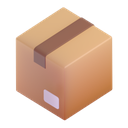
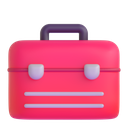
v581: Sol sidebar ve mobil 3B ikonlar, Personel Takibi yeşil/kırmızı ok ikonu, Palet Fişi kutu ikonu

diff --git a/assets/style.css b/assets/style.css
@@ -2671,7 +2671,7 @@ dialog.pm-dialog:not([open]) { display: none; }
 @media (min-width: 390px) { .bottomnav .bn-more-dar { display: none; } }
 .bn-sep { align-self: center; width: 1px; height: 34px; flex: 0 0 1px; background: var(--bn-dock-border); }
 .bn-item .ni-wrap { position: relative; width: 42px; height: 42px; flex-shrink: 0; transition: transform .32s cubic-bezier(.34,1.56,.64,1); }
-.bn-item .ni { width: 100%; height: 100%; display: block; filter: var(--ni-idle); transition: filter .25s ease; }
+.bn-item .ni { width: 100%; height: 100%; display: block; object-fit: contain; filter: var(--ni-idle); transition: filter .25s ease; }
 .bn-item .bn-label {
     font-size: 10.5px; line-height: 1.1; font-weight: 600; color: var(--bn-label);
     white-space: nowrap; overflow: hidden; text-overflow: ellipsis; max-width: 100%;
@@ -2781,9 +2781,11 @@ a.bn-tile.bn-tile-link:focus-visible { outline: 2px solid var(--depot-accent, va
     width: 50px; height: 50px; display: grid; place-items: center; font-size: 1.55rem; line-height: 1;
     border-radius: 14px; background: var(--surface-2); border: 1px solid var(--border);
 }
+.bn-emoji:has(img) { background: transparent; border: none; border-radius: 0; }
+.bn-emoji img { width: 50px; height: 50px; object-fit: contain; display: block; }
 .bn-tile-link.is-current { background: rgba(var(--depot-accent-rgb, 100,116,139), .12); box-shadow: inset 0 0 0 1.5px rgba(var(--depot-accent-rgb, 100,116,139), .5); }
 .bn-sheet.editing .bn-tile-link { opacity: .4; }   /* Sabitle modunda: bu sayfalar sabitlenemez */
-.bn-tile .go img { width: 50px; height: 50px; }
+.bn-tile .go img { width: 50px; height: 50px; object-fit: contain; }
 .bn-tile.is-current .go { background: rgba(var(--depot-accent-rgb, 100,116,139), .12); box-shadow: inset 0 0 0 1.5px rgba(var(--depot-accent-rgb, 100,116,139), .5); }
 .bn-tile.in-bar .go::after { content: 'alt menüde'; font-size: .6rem; font-weight: 600; color: var(--muted); }
 .bn-sheet.editing .bn-tile.in-bar .go::after { content: none; }
@@ -4242,7 +4244,8 @@ a.bn-tile.bn-tile-link:focus-visible { outline: 2px solid var(--depot-accent, va
         background: rgba(255,255,255,.08);
         color: #fff; text-decoration: none;
     }
-    .sidebar-link-icon { font-size: 1rem; width: 20px; text-align: center; flex-shrink: 0; }
+    .sidebar-link-icon { font-size: 1rem; width: 20px; height: 20px; display: inline-flex; align-items: center; justify-content: center; text-align: center; flex-shrink: 0; }
+    .sidebar-link-icon img { width: 20px; height: 20px; object-fit: contain; display: block; }
     .sidebar-link-label { white-space: nowrap; overflow: hidden; text-overflow: ellipsis; }
 
     /* "Personel Takibi" sidebar ikonu — index.php'nin dashboard kartındaki

diff --git a/scripts/dashboard_navigation_smoke.js b/scripts/dashboard_navigation_smoke.js
@@ -52,12 +52,18 @@ const proof = { anonymous: true, liveApplication: false, physicalMobileDevice: f
             });
             check(await page.evaluate(() => {
                 const imgs = Array.from(document.querySelectorAll('.home-card-icon img'));
-                return imgs.length === 45 && imgs.every(img => img.complete && img.naturalWidth === 128 && (img.getAttribute('src') || '').startsWith('assets/nav-icons/3d/'));
-            }), name + ' all 45 homepage 3D PNG icons decode at naturalWidth 128');
+                return imgs.length === 45 && imgs.every(img => {
+                    const href = img.closest('.home-card')?.getAttribute('href') || '';
+                    const src = img.getAttribute('src') || '';
+                    if (href === 'personel_takip.php') return img.complete && img.naturalWidth > 0 && src.startsWith('assets/nav-icons/ptak.svg?v=');
+                    return img.complete && img.naturalWidth === 128 && src.startsWith('assets/nav-icons/3d/');
+                });
+            }), name + ' all 45 homepage icons decode cleanly (44 3D PNG 128px + Personel Takibi ptak.svg)');
             // v551: akordiyon — Hızlı Maliyet, kapalı Operasyon grubunda; görüntü çözülsün diye grubu aç
             await page.evaluate(() => { const d = document.querySelector('details[data-sb-grup="operasyon"]'); if (d) d.open = true; });
             await page.waitForFunction(() => { const i = document.querySelector('.sidebar-link[href="hizli_maliyet.php"] img'); return i && i.complete && i.naturalWidth > 0; });
-            check(await page.locator('.sidebar-link[href="hizli_maliyet.php"] img').evaluate(image => image.complete && image.naturalWidth === 64 && image.width === 20 && image.height === 20 && image.getAttribute('src').includes('assets/nav-icons/qcost.svg?v=')), name + ' sidebar reuses the dollar asset at its original icon size');
+            check(await page.locator('.sidebar-link[href="hizli_maliyet.php"] img').evaluate(image => image.complete && image.naturalWidth === 128 && image.width === 20 && image.height === 20 && image.getAttribute('src').includes('assets/nav-icons/3d/hizli_maliyet.png?v=')), name + ' sidebar uses 3D icon at 20x20');
+            check(await page.locator('.sidebar-link[href="personel_takip.php"] .sbi-personel').count() === 1, name + ' sidebar keeps .sbi-personel 3D arrow icon');
             const expectedIconPx = width >= 1280 ? 64 : (width >= 900 ? 56 : 54);
             for (const theme of ['light', 'dark']) {
                 await page.evaluate(theme => { document.documentElement.dataset.theme = theme; }, theme);

diff --git a/scripts/bottomnav_smoke.js b/scripts/bottomnav_smoke.js
@@ -440,8 +440,8 @@ function guvenliAlanKurallari(barSel) {
             if (homeBekAktif) ok('B', bag, 'maliyet_*: dashboard.read yok → Ana Sayfa aktif', olcAktif === 'home', JSON.stringify(d.aktifler));
             else ok('B', bag, 'maliyet_*: Eski Raporlar (rapor) aktif', olcAktif === 'rapor' || (olcAktif === 'more' && d.digerLabel.includes('Eski Raporlar')), JSON.stringify(d.aktifler));
         }
-        ok('B', bag, 'ikonlar <img width=42/18 alt=""> assets/nav-icons/*.svg?v=',
-            d.imgler.every(([w, h, alt, src]) => w === h && ['42', '18'].includes(w) && alt === '' && /assets\/nav-icons\/[a-z]+\.svg\?v=\d+$/.test(src)),
+        ok('B', bag, 'ikonlar <img width=42/18 alt=""> assets/nav-icons/(3d/*.png|*.svg)?v=',
+            d.imgler.every(([w, h, alt, src]) => w === h && ['42', '18'].includes(w) && alt === '' && /assets\/nav-icons\/(3d\/[a-z0-9_]+\.png|[a-z]+\.svg)\?v=\d+$/.test(src)),
             JSON.stringify(d.imgler.filter(([w, h, alt, src]) => !(w === h && alt === '' && /nav-icons/.test(src)))));
         await ctx.close();
     }
@@ -900,13 +900,13 @@ function guvenliAlanKurallari(barSel) {
         }, TASARIM);
         let d = await oku();
         ok('B', bag + '@360', '4. slot gizli, "Diğer" Hesap\'ı taşıyor (ikon + rozet + etiket + aria-current)',
-            d.diger && d.digerCur === 'page' && /hesap\.svg/.test(d.ikon) && d.rozet && d.etiket === 'Hesap' && !d.slotGor, JSON.stringify(d));
+            d.diger && d.digerCur === 'page' && /hesap\.png/.test(d.ikon) && d.rozet && d.etiket === 'Hesap' && !d.slotGor, JSON.stringify(d));
         await page.setViewportSize({ width: 430, height: 932 }); await page.waitForTimeout(250);
         d = await oku();
         ok('B', bag + '@430', 'genişleyince Hesap slotu görünür+aktif, "Diğer" artık Hesap\'ı TAŞIMAZ (v575: şifre değiştirme karosu için "Diğer" kalır)', d.diger && d.slotGor && d.slotCur === 'page' && d.digerCur === null, JSON.stringify(d));
         await page.setViewportSize({ width: 360, height: 740 }); await page.waitForTimeout(250);
         d = await oku();
-        ok('B', bag + '@360', 'daralınca yine "Diğer" taşır', d.diger && d.digerCur === 'page' && /hesap\.svg/.test(d.ikon), JSON.stringify(d));
+        ok('B', bag + '@360', 'daralınca yine "Diğer" taşır', d.diger && d.digerCur === 'page' && /hesap\.png/.test(d.ikon), JSON.stringify(d));
         ok('A', bag, 'konsol hatası yok', hatalar.length === 0, hatalar.join(' || '));
         await ctx.close();
     }

diff --git a/sw.js b/sw.js
@@ -1,5 +1,5 @@
 // sw.js — Yükleme Planı PWA Service Worker
-const CACHE_NAME = 'yukleme-plani-v580';
+const CACHE_NAME = 'yukleme-plani-v581';
 
 // Uygulama kabuğunu önbellekle
 const SHELL = [

diff --git a/config/helpers.php b/config/helpers.php
@@ -13,7 +13,7 @@ require_once __DIR__ . '/role_permission_matrix.php';
 // gözle doğrulamak). sw.js'teki CACHE_NAME sayısıyla EŞLENİR — anlamlı bir
 // değişiklik yapıp SW cache'i artırdığınızda BU DEĞERİ DE aynı sayıya çekin.
 if (!defined('APP_SURUM')) {
-    define('APP_SURUM', 'v580');
+    define('APP_SURUM', 'v581');
 }
 
 // --- HTML kaçışı ---
@@ -670,8 +670,13 @@ function nav_menu_modeli(string $base): array {
     $a_ynt   = $a_usr || $a_rol || $a_aud || $a_bkp;
 
 
-    $ge = fn(string $href, string $ikon, string $etiket, bool $aktif, ?string $nav = null, int $rozet = 0): array =>
-        ['href' => $href, 'ikon' => $ikon, 'etiket' => $etiket, 'aktif' => $aktif, 'rozet' => $rozet, 'nav' => $nav];
+    $ge = function (string $href, string $ikon, string $etiket, bool $aktif, ?string $nav = null, int $rozet = 0) use ($base): array {
+        // v581: Personel Takibi sidebar'da .sbi-personel 3B ok ikonunu korur; diğer tüm öğeler 3B PNG setini kullanır.
+        if ($href !== 'personel_takip.php' && ($u3d = nav_3d_ikon_url($href, $base)) !== null) {
+            $ikon = '<img src="' . h($u3d) . '" width="20" height="20" alt="" decoding="async">';
+        }
+        return ['href' => $href, 'ikon' => $ikon, 'etiket' => $etiket, 'aktif' => $aktif, 'rozet' => $rozet, 'nav' => $nav];
+    };
     $muh = nav_muhasebe_gruplari();
     $gruplar = [];
     $ekle = function (string $slug, string $ad, string $svg, array $ogeler) use (&$gruplar): void {
@@ -885,25 +890,25 @@ function nav_rozet_html(int $n, bool $okunur = true, string $ekSinif = '', bool 
  */
 function nav_alt_sayfalar(): array {
     return [
-        'home'    => ['href' => 'index.php',            'etiket' => 'Ana Sayfa',            'kisa' => 'Ana Sayfa',  'dar' => '',        'renk' => '#232d3e', 'grup' => '',          'ikon' => 'assets/nav-icons/home.svg'],
-        'siparis' => ['href' => 'siparisler.php',       'etiket' => 'OGL Siparişler',       'kisa' => 'OGL Sipariş','dar' => 'Sipariş',       'renk' => '#b45309', 'grup' => 'Operasyon', 'ikon' => 'assets/nav-icons/siparis.svg'],
-        'frugro'  => ['href' => 'frugro_siparis.php',   'etiket' => 'Frugro Siparişler',    'kisa' => 'Frugro',     'dar' => null,      'renk' => '#a21caf', 'grup' => 'Operasyon', 'ikon' => 'assets/nav-icons/frugro.svg'],
-        'usip'    => ['href' => 'urun_siparis.php',     'etiket' => 'Siparişler',           'kisa' => 'Siparişler', 'dar' => null,      'renk' => '#c2410c', 'grup' => 'Operasyon', 'ikon' => 'assets/nav-icons/siparis.svg'],
-        'beyan'   => ['href' => 'beyanlar.php',         'etiket' => 'Beyanlar',             'kisa' => 'Beyanlar',   'dar' => null,      'renk' => '#5a2fcf', 'grup' => 'Operasyon', 'ikon' => 'assets/nav-icons/beyan.svg'],
-        'hks'     => ['href' => 'halkayit/index.php',   'etiket' => 'Hal Bildirimi',        'kisa' => 'Bildirim',   'dar' => null,      'renk' => '#1d3fa6', 'grup' => 'Operasyon', 'ikon' => 'assets/nav-icons/hks.svg'],
-        'mail'    => ['href' => 'mail.php',             'etiket' => 'Mail Merkezi',         'kisa' => 'Mail',       'dar' => null,      'renk' => '#0e7490', 'grup' => 'Operasyon', 'ikon' => 'assets/nav-icons/mail.svg'],
-        'records' => ['href' => 'records.php',          'etiket' => 'Yükleme Planı',   'kisa' => 'Plan', 'dar' => 'Plan',    'renk' => '#e0620e', 'grup' => 'Operasyon', 'ikon' => 'assets/nav-icons/cikma.svg'],
-        'cikma'   => ['href' => 'cikmalar.php',         'etiket' => 'Paletleme',      'kisa' => 'Palet',  'dar' => 'Palet',      'renk' => '#0b6fc0', 'grup' => 'Operasyon', 'ikon' => 'assets/nav-icons/records.svg'],
-        'kantar'  => ['href' => 'kantar.php',           'etiket' => 'Mal Kabul',      'kisa' => 'Kabul', 'dar' => 'Kabul',      'renk' => '#12824a', 'grup' => 'Operasyon', 'ikon' => 'assets/nav-icons/kantar.svg'],
-        'rapor'   => ['href' => 'reports.php',          'etiket' => 'Eski Raporlar',       'kisa' => 'Eski Rapor', 'dar' => 'Rapor',      'renk' => '#132a66', 'grup' => 'Operasyon', 'ikon' => 'assets/nav-icons/rapor.svg'],
-        'qcost'   => ['href' => 'hizli_maliyet.php',     'etiket' => 'Hızlı Maliyet',        'kisa' => 'Hızlı Maliyet', 'dar' => 'Maliyet', 'renk' => '#1d6cf0', 'grup' => 'Operasyon', 'ikon' => 'assets/nav-icons/qcost.svg'],
-        'mstok'   => ['href' => 'malzeme_stok.php',     'etiket' => 'Malzeme Stok',         'kisa' => 'Malzeme',    'dar' => null,      'renk' => '#0c7f73', 'grup' => 'Operasyon', 'ikon' => 'assets/nav-icons/mstok.svg'],
-        'hesap'   => ['href' => 'hesap.php',            'etiket' => 'Hesap',                'kisa' => 'Hesap',      'dar' => null,      'renk' => '#d8336f', 'grup' => 'Operasyon', 'ikon' => 'assets/nav-icons/hesap.svg'],
+        'home'    => ['href' => 'index.php',            'etiket' => 'Ana Sayfa',            'kisa' => 'Ana Sayfa',  'dar' => '',        'renk' => '#232d3e', 'grup' => '',          'ikon' => 'assets/nav-icons/3d/index.png'],
+        'siparis' => ['href' => 'siparisler.php',       'etiket' => 'OGL Siparişler',       'kisa' => 'OGL Sipariş','dar' => 'Sipariş', 'renk' => '#b45309', 'grup' => 'Operasyon', 'ikon' => 'assets/nav-icons/3d/siparisler.png'],
+        'frugro'  => ['href' => 'frugro_siparis.php',   'etiket' => 'Frugro Siparişler',    'kisa' => 'Frugro',     'dar' => null,      'renk' => '#a21caf', 'grup' => 'Operasyon', 'ikon' => 'assets/nav-icons/3d/frugro_siparis.png'],
+        'usip'    => ['href' => 'urun_siparis.php',     'etiket' => 'Siparişler',           'kisa' => 'Siparişler', 'dar' => null,      'renk' => '#c2410c', 'grup' => 'Operasyon', 'ikon' => 'assets/nav-icons/3d/urun_siparis.png'],
+        'beyan'   => ['href' => 'beyanlar.php',         'etiket' => 'Beyanlar',             'kisa' => 'Beyanlar',   'dar' => null,      'renk' => '#5a2fcf', 'grup' => 'Operasyon', 'ikon' => 'assets/nav-icons/3d/beyanlar.png'],
+        'hks'     => ['href' => 'halkayit/index.php',   'etiket' => 'Hal Bildirimi',        'kisa' => 'Bildirim',   'dar' => null,      'renk' => '#1d3fa6', 'grup' => 'Operasyon', 'ikon' => 'assets/nav-icons/3d/halkayit.png'],
+        'mail'    => ['href' => 'mail.php',             'etiket' => 'Mail Merkezi',         'kisa' => 'Mail',       'dar' => null,      'renk' => '#0e7490', 'grup' => 'Operasyon', 'ikon' => 'assets/nav-icons/3d/mail.png'],
+        'records' => ['href' => 'records.php',          'etiket' => 'Yükleme Planı',        'kisa' => 'Plan',       'dar' => 'Plan',    'renk' => '#e0620e', 'grup' => 'Operasyon', 'ikon' => 'assets/nav-icons/3d/arac_yukleme_fisleri.png'],
+        'cikma'   => ['href' => 'cikmalar.php',         'etiket' => 'Paletleme',            'kisa' => 'Palet',      'dar' => 'Palet',   'renk' => '#0b6fc0', 'grup' => 'Operasyon', 'ikon' => 'assets/nav-icons/3d/palet_fisleri.png'],
+        'kantar'  => ['href' => 'kantar.php',           'etiket' => 'Mal Kabul',            'kisa' => 'Kabul',      'dar' => 'Kabul',   'renk' => '#12824a', 'grup' => 'Operasyon', 'ikon' => 'assets/nav-icons/3d/mal_kabul_fisleri.png'],
+        'rapor'   => ['href' => 'reports.php',          'etiket' => 'Eski Raporlar',        'kisa' => 'Eski Rapor', 'dar' => 'Rapor',   'renk' => '#132a66', 'grup' => 'Operasyon', 'ikon' => 'assets/nav-icons/3d/reports.png'],
+        'qcost'   => ['href' => 'hizli_maliyet.php',    'etiket' => 'Hızlı Maliyet',        'kisa' => 'Hızlı Maliyet', 'dar' => 'Maliyet', 'renk' => '#1d6cf0', 'grup' => 'Operasyon', 'ikon' => 'assets/nav-icons/3d/hizli_maliyet.png'],
+        'mstok'   => ['href' => 'malzeme_stok.php',     'etiket' => 'Malzeme Stok',         'kisa' => 'Malzeme',    'dar' => null,      'renk' => '#0c7f73', 'grup' => 'Operasyon', 'ikon' => 'assets/nav-icons/3d/malzeme_stok.png'],
+        'hesap'   => ['href' => 'hesap.php',            'etiket' => 'Hesap',                'kisa' => 'Hesap',      'dar' => null,      'renk' => '#d8336f', 'grup' => 'Operasyon', 'ikon' => 'assets/nav-icons/3d/hesap.png'],
         'ptak'    => ['href' => 'personel_takip.php',   'etiket' => 'Personel Takibi',      'kisa' => 'Personel',   'dar' => null,      'renk' => '#0b5c34', 'grup' => 'Operasyon', 'ikon' => 'assets/nav-icons/ptak.svg'],
-        'users'   => ['href' => 'users.php',            'etiket' => 'Kullanıcılar',         'kisa' => 'Kullanıcı',  'dar' => null,      'renk' => '#3d49b5', 'grup' => 'Yönetim',   'ikon' => 'assets/nav-icons/users.svg'],
-        'roles'   => ['href' => 'roles.php',            'etiket' => 'Roller',               'kisa' => 'Roller',     'dar' => null,      'renk' => '#48566f', 'grup' => 'Yönetim',   'ikon' => 'assets/nav-icons/roles.svg'],
-        'audit'   => ['href' => 'audit.php',            'etiket' => 'İşlem Geçmişi',        'kisa' => 'Geçmiş',     'dar' => null,      'renk' => '#b3163f', 'grup' => 'Yönetim',   'ikon' => 'assets/nav-icons/audit.svg'],
-        'backup'  => ['href' => 'admin_db_backups.php', 'etiket' => 'Veritabanı Yedekleri', 'kisa' => 'Yedekler',   'dar' => null,      'renk' => '#3f7d0b', 'grup' => 'Yönetim',   'ikon' => 'assets/nav-icons/backup.svg'],
+        'users'   => ['href' => 'users.php',            'etiket' => 'Kullanıcılar',         'kisa' => 'Kullanıcı',  'dar' => null,      'renk' => '#3d49b5', 'grup' => 'Yönetim',   'ikon' => 'assets/nav-icons/3d/users.png'],
+        'roles'   => ['href' => 'roles.php',            'etiket' => 'Roller',               'kisa' => 'Roller',     'dar' => null,      'renk' => '#48566f', 'grup' => 'Yönetim',   'ikon' => 'assets/nav-icons/3d/roles.png'],
+        'audit'   => ['href' => 'audit.php',            'etiket' => 'İşlem Geçmişi',        'kisa' => 'Geçmiş',     'dar' => null,      'renk' => '#b3163f', 'grup' => 'Yönetim',   'ikon' => 'assets/nav-icons/3d/audit.png'],
+        'backup'  => ['href' => 'admin_db_backups.php', 'etiket' => 'Veritabanı Yedekleri', 'kisa' => 'Yedekler',   'dar' => null,      'renk' => '#3f7d0b', 'grup' => 'Yönetim',   'ikon' => 'assets/nav-icons/3d/admin_db_backups.png'],
         'more'    => ['href' => '',                     'etiket' => 'Diğer',                'kisa' => 'Diğer',      'dar' => null,      'renk' => '#6b788d', 'grup' => '',          'ikon' => 'assets/nav-icons/more.svg'],
     ];
 }
@@ -994,7 +999,8 @@ function nav_3d_ikon_url(string $href, string $base = ''): ?string {
     $anahtar = basename($yol, '.php');
     if ($anahtar === 'index' && str_contains($yol, '/')) $anahtar = basename(dirname($yol));
     if ($anahtar === '' || !preg_match('/^[a-z0-9_-]+$/i', $anahtar)) return null;
-    $goreli = 'assets/nav-icons/3d/' . $anahtar . '.png';
+    // v581 (sahip kararı): Personel Takibi yeşil/kırmızı 3B ok ikonunu (ptak.svg) korur.
+    $goreli = $anahtar === 'personel_takip' ? 'assets/nav-icons/ptak.svg' : 'assets/nav-icons/3d/' . $anahtar . '.png';
     $v = @filemtime(__DIR__ . '/../' . $goreli);
     return $v ? $base . $goreli . '?v=' . $v : null;
 }

diff --git a/scripts/dashboard_sidebar_parity_smoke.php b/scripts/dashboard_sidebar_parity_smoke.php
@@ -311,15 +311,19 @@ foreach ($dashboardProfiles as $name => $profile) {
     dashboard_check($xpath->query('//*[contains(concat(" ",normalize-space(@class)," ")," home-card-badge ")]')->length === 0, $name . ': ana sayfada .home-card-badge yok (v580)');
     dashboard_check($xpath->query('//*[contains(concat(" ",normalize-space(@class)," ")," home-card-sub ")]')->length === 0, $name . ': ana sayfada .home-card-sub yok (v580)');
     foreach ($xpath->query($dashboardHomeQuery) as $cardNode) {
+        $chref = $cardNode->getAttribute('href');
         $imgNode = $xpath->query('.//*[contains(concat(" ",normalize-space(@class)," ")," home-card-icon ")]/img', $cardNode)->item(0);
-        dashboard_check($imgNode !== null && str_starts_with($imgNode->getAttribute('src'), 'assets/nav-icons/3d/'), $name . ': 3B PNG ikon var ' . $cardNode->getAttribute('href'));
+        $beklenen = $chref === 'personel_takip.php' ? 'assets/nav-icons/ptak.svg?v=' : 'assets/nav-icons/3d/';
+        dashboard_check($imgNode !== null && str_starts_with($imgNode->getAttribute('src'), $beklenen), $name . ': 3B ikon var ' . $chref);
     }
     if ($name === 'admin') {
         dashboard_check(count($home) === 44, 'admin: Ana Sayfa hariç 44 benzersiz kart (27 yetkili katalog sayfası (v574: Tanımlar kalktı) + 1 Depo Tanımları (v574: Şube kalktı) + 16 modül kartı; v558: eski Yükleme Planı/Paletleme/Mal Kabul kartları yok)');
         dashboard_check(($sidebarGroups[count($sidebarGroups) - 1]['heading'] ?? '') === 'Yönetim', 'admin: Yönetim sidebar\'da EN SON grup (v580)');
         dashboard_check(($homeGroups[count($homeGroups) - 1]['heading'] ?? '') === 'Yönetim', 'admin: Yönetim ana sayfada EN SON grup (v580)');
         $sbQcost = $xpath->query('//nav[contains(concat(" ",normalize-space(@class)," ")," sidebar-nav ")]//a[@href="hizli_maliyet.php"]//img')->item(0);
-        dashboard_check($sbQcost !== null && str_starts_with($sbQcost->getAttribute('src'), 'assets/nav-icons/qcost.svg?v='), 'admin: sidebar Hızlı Maliyet SVG ikonu korunur');
+        dashboard_check($sbQcost !== null && str_starts_with($sbQcost->getAttribute('src'), 'assets/nav-icons/3d/hizli_maliyet.png?v='), 'admin: sidebar Hızlı Maliyet 3B ikonu (v581)');
+        $sbPtak = $xpath->query('//nav[contains(concat(" ",normalize-space(@class)," ")," sidebar-nav ")]//a[@href="personel_takip.php"]//*[contains(concat(" ",normalize-space(@class)," ")," sbi-personel ")]')->item(0);
+        dashboard_check($sbPtak !== null, 'admin: sidebar Personel Takibi .sbi-personel ikonu korunur (v581)');
     }
     // Hızlı Maliyet kartı/sidebar bağlantısı YALNIZ yönetici ya da hizli_maliyet.read ile (maliyet.* AÇMAZ; write/delete okumasız AÇMAZ).
     $quickExpected = $profile['admin'] || in_array('hizli_maliyet.read', $profile['permissions'], true);

diff --git a/scripts/quick_cost_sidebar_smoke.php b/scripts/quick_cost_sidebar_smoke.php
@@ -50,9 +50,9 @@ $mobileEnd = strpos($source, 'function nav_alt_cerez_oku(', $mobileStart);
 if ($mobileStart === false || $mobileEnd === false) throw new RuntimeException('Mobile source not found.');
 eval(substr($source, $mobileStart, $mobileEnd - $mobileStart));
 $iconStart = strpos($source, 'function nav_alt_ikon_url(');
-$iconEnd = strpos($source, '/**', $iconStart);
+$iconEnd = strpos($source, 'function nav_alt_home_anahtar(', $iconStart);
 if ($iconStart === false || $iconEnd === false) throw new RuntimeException('Icon URL source not found.');
-eval(substr($source, $iconStart, $iconEnd - $iconStart));
+eval(str_replace('__DIR__', var_export(dirname(__DIR__) . '/config', true), substr($source, $iconStart, $iconEnd - $iconStart)));
 $checks = 0;
 function qc_sidebar_check(bool $value, string $label): void {
     if (!$value) throw new RuntimeException('FAIL: ' . $label);
@@ -75,10 +75,10 @@ qc_sidebar_check($xp->query('//a[@href="/app/reports.php" and contains(@class," 
 qc_sidebar_check($xp->query('//details[@data-sb-grup="operasyon" and @open]//a[@href="/app/hizli_maliyet.php"]')->length === 1, 'operation group open');
 qc_sidebar_check(nav_aktif_anahtar() === 'qcost', 'list and form share the dedicated mobile item');
 qc_sidebar_check(nav_alt_izinler()['qcost'] === true, 'admin mobile entry works without loading cost_calc');
-qc_sidebar_check($xp->query('//a[@href="/app/hizli_maliyet.php"]//img[starts-with(@src,"/app/assets/nav-icons/qcost.svg?v=") and @alt=""]')->length === 1, 'sidebar uses the shared decorative dollar asset with cache version');
+qc_sidebar_check($xp->query('//a[@href="/app/hizli_maliyet.php"]//img[starts-with(@src,"/app/assets/nav-icons/3d/hizli_maliyet.png?v=") and @alt=""]')->length === 1, 'sidebar uses the 3D hizli_maliyet icon with cache version');
 }
 qc_sidebar_check(nav_alt_sayfalar()['qcost']['href'] === 'hizli_maliyet.php' && nav_alt_sayfalar()['qcost']['etiket'] === 'Hızlı Maliyet', 'mobile button opens the record list with the requested name');
-qc_sidebar_check(nav_alt_sayfalar()['qcost']['ikon'] === 'assets/nav-icons/qcost.svg', 'mobile item uses the same dedicated dollar icon');
+qc_sidebar_check(nav_alt_sayfalar()['qcost']['ikon'] === 'assets/nav-icons/3d/hizli_maliyet.png', 'mobile item uses the same 3D hizli_maliyet icon');
 foreach (['reports.php','maliyet.php','maliyet_form.php','maliyet_view.php'] as $page) {
     [, $xp] = sidebar($page);
     qc_sidebar_check($xp->query('//a[@href="/app/reports.php" and contains(@class," active")]')->length === 1, 'existing report/cost active route retained: ' . $page);

diff --git a/scripts/frugro_gate_static_smoke.php b/scripts/frugro_gate_static_smoke.php
@@ -102,7 +102,7 @@ ok('nav_aktif_anahtar: frugro bayrağı + 6 sayfa', (bool)preg_match("/\\\$a_frg
 ok('sidebar: Frugro OGL\'nin HEMEN altında (usip\'ten önce)', (function () use ($helpers) { $a = strpos($helpers, "\$ge('siparisler.php'"); $b = strpos($helpers, "\$ge('frugro_siparis.php'"); $c = strpos($helpers, "\$ge('urun_siparis.php'"); return $a && $b && $c && $a < $b && $b < $c; })());
 ok("sidebar kapısı Frugro'nun KENDİ sayfa izni", str_contains($helpers, "\$p_frg   = role_matrix_page_can('siparis','frugro');") && !str_contains($helpers, '$p_frg   = $p_sip;'));
 ok('topnav Frugro bağlantısı', str_contains($helpers, 'frugro_siparis.php" <?= nav_aktif_anahtar() === \'frugro\''));
-ok('nav_alt_sayfalar frugro kaydı', (bool)preg_match("/'frugro'\s*=> \['href' => 'frugro_siparis\.php',[^\n]*'grup' => 'Operasyon', 'ikon' => 'assets\/nav-icons\/frugro\.svg'\]/", $helpers) && is_file($ROOT . '/assets/nav-icons/frugro.svg'));
+ok('nav_alt_sayfalar frugro kaydı', (bool)preg_match("/'frugro'\s*=> \['href' => 'frugro_siparis\.php',[^\n]*'grup' => 'Operasyon', 'ikon' => 'assets\/nav-icons\/3d\/frugro_siparis\.png'\]/", $helpers) && is_file($ROOT . '/assets/nav-icons/3d/frugro_siparis.png'));
 ok('nav_alt_izinler frugro = Frugro sayfa izni', str_contains($helpers, "'frugro'  => \$fn && role_matrix_page_can('siparis','frugro')"));
 ok('topnav Frugro bağlantısı Frugro sayfa izniyle', str_contains($helpers, "<?php if (role_matrix_page_can('siparis','frugro')): ?>\n            <a href=\"<?= \$base ?>frugro_siparis.php\""));
 ok('first_allowed_page Frugro adayı (sayfa kapısıyla aynı)', str_contains($helpers, "'frugro_siparis.php' => role_matrix_page_can('siparis','frugro')"));

diff --git a/CLAUDE.md b/CLAUDE.md
@@ -7,7 +7,7 @@ PHP 8 + MySQL tarım ihracat operasyon yönetim sistemi. Mobil öncelikli, PWA k
 
 **Canlı:** `asya.scai.tr` (2026-09-27'den beri) · **Test:** `nuverna.derspros.com.tr` (ayrı DB; `derspros.com.tr` 25.12.2026'da bitiyor, yenilenmeyecek)  
 **Branch:** `claude/fix-records-print-mobile-WuKdT`  
-**SW Cache:** `yukleme-plani-v580` (sw.js — değişiklikte artır; `config/helpers.php`'deki `APP_SURUM` ile aynı sayıda tut)
+**SW Cache:** `yukleme-plani-v581` (sw.js — değişiklikte artır; `config/helpers.php`'deki `APP_SURUM` ile aynı sayıda tut)
 
 ## Modül Skill'leri (ayrıntılı kurallar)
 
